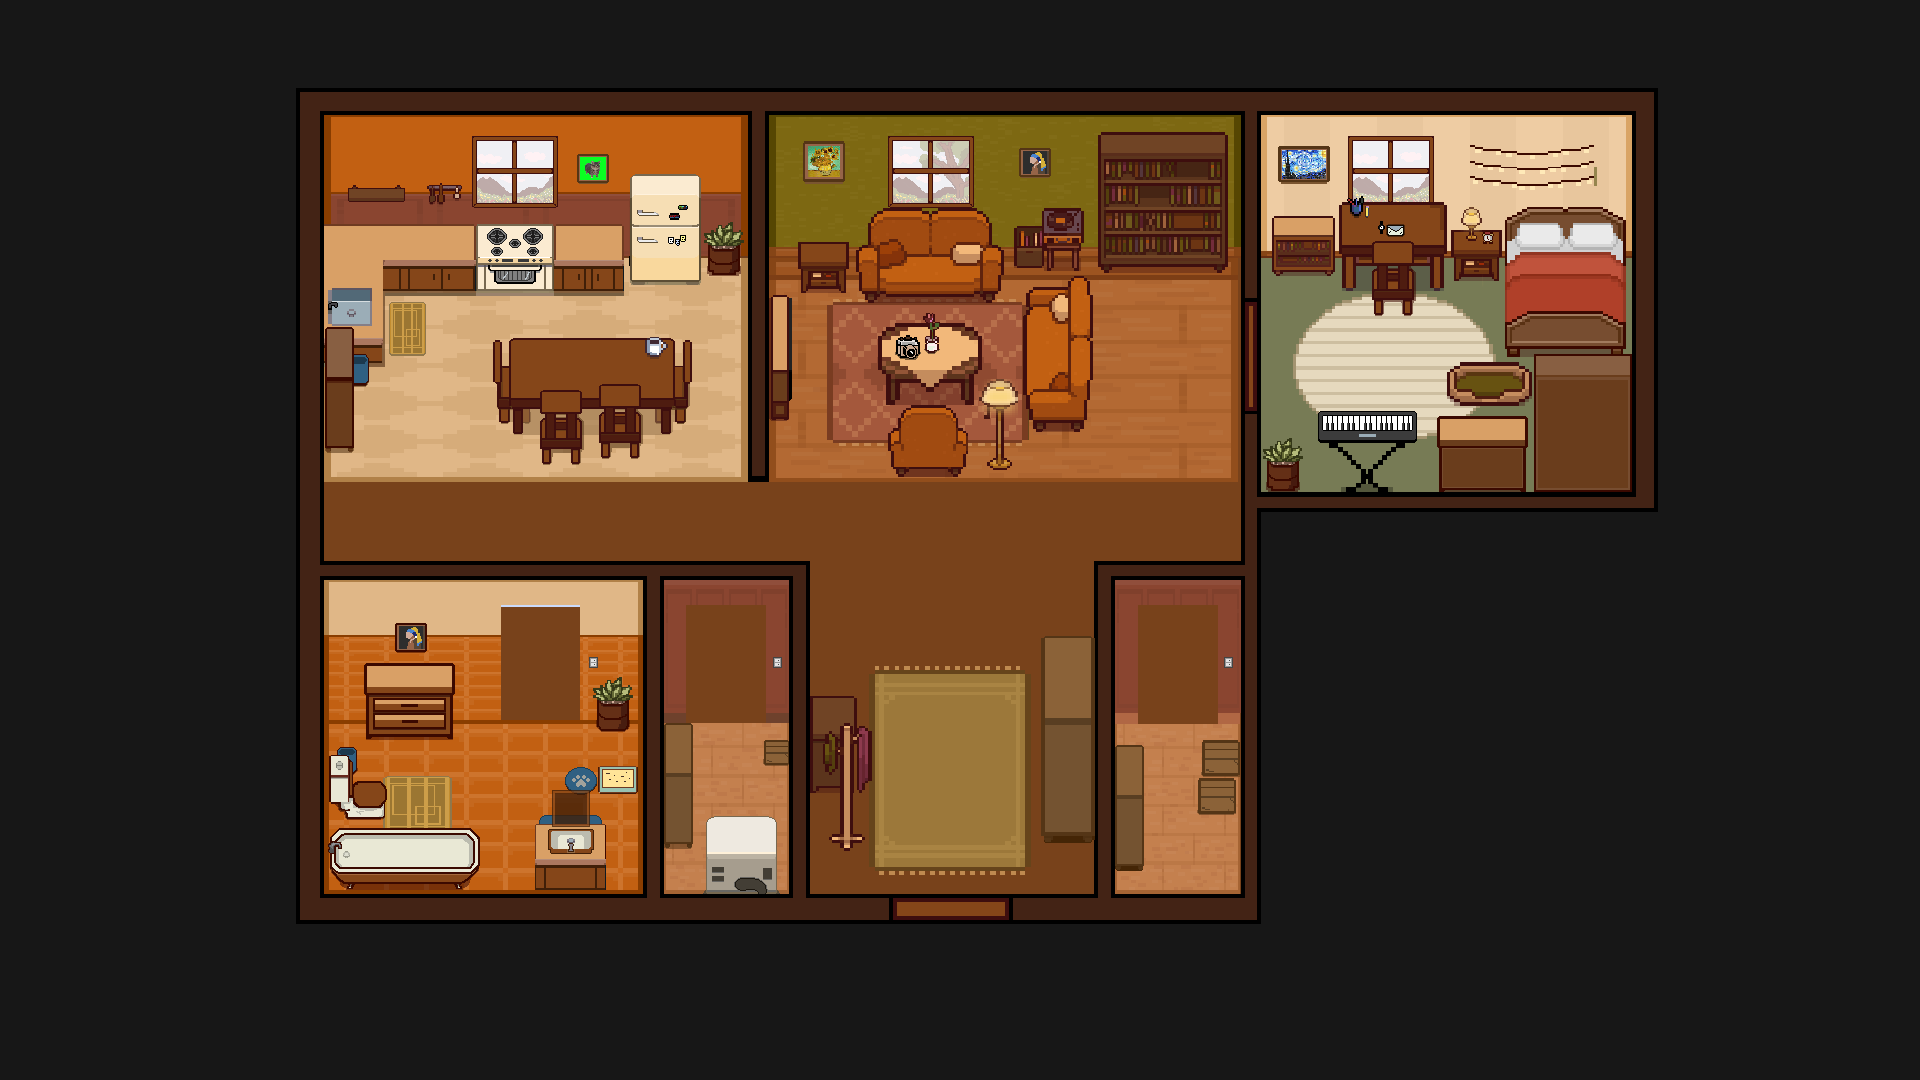
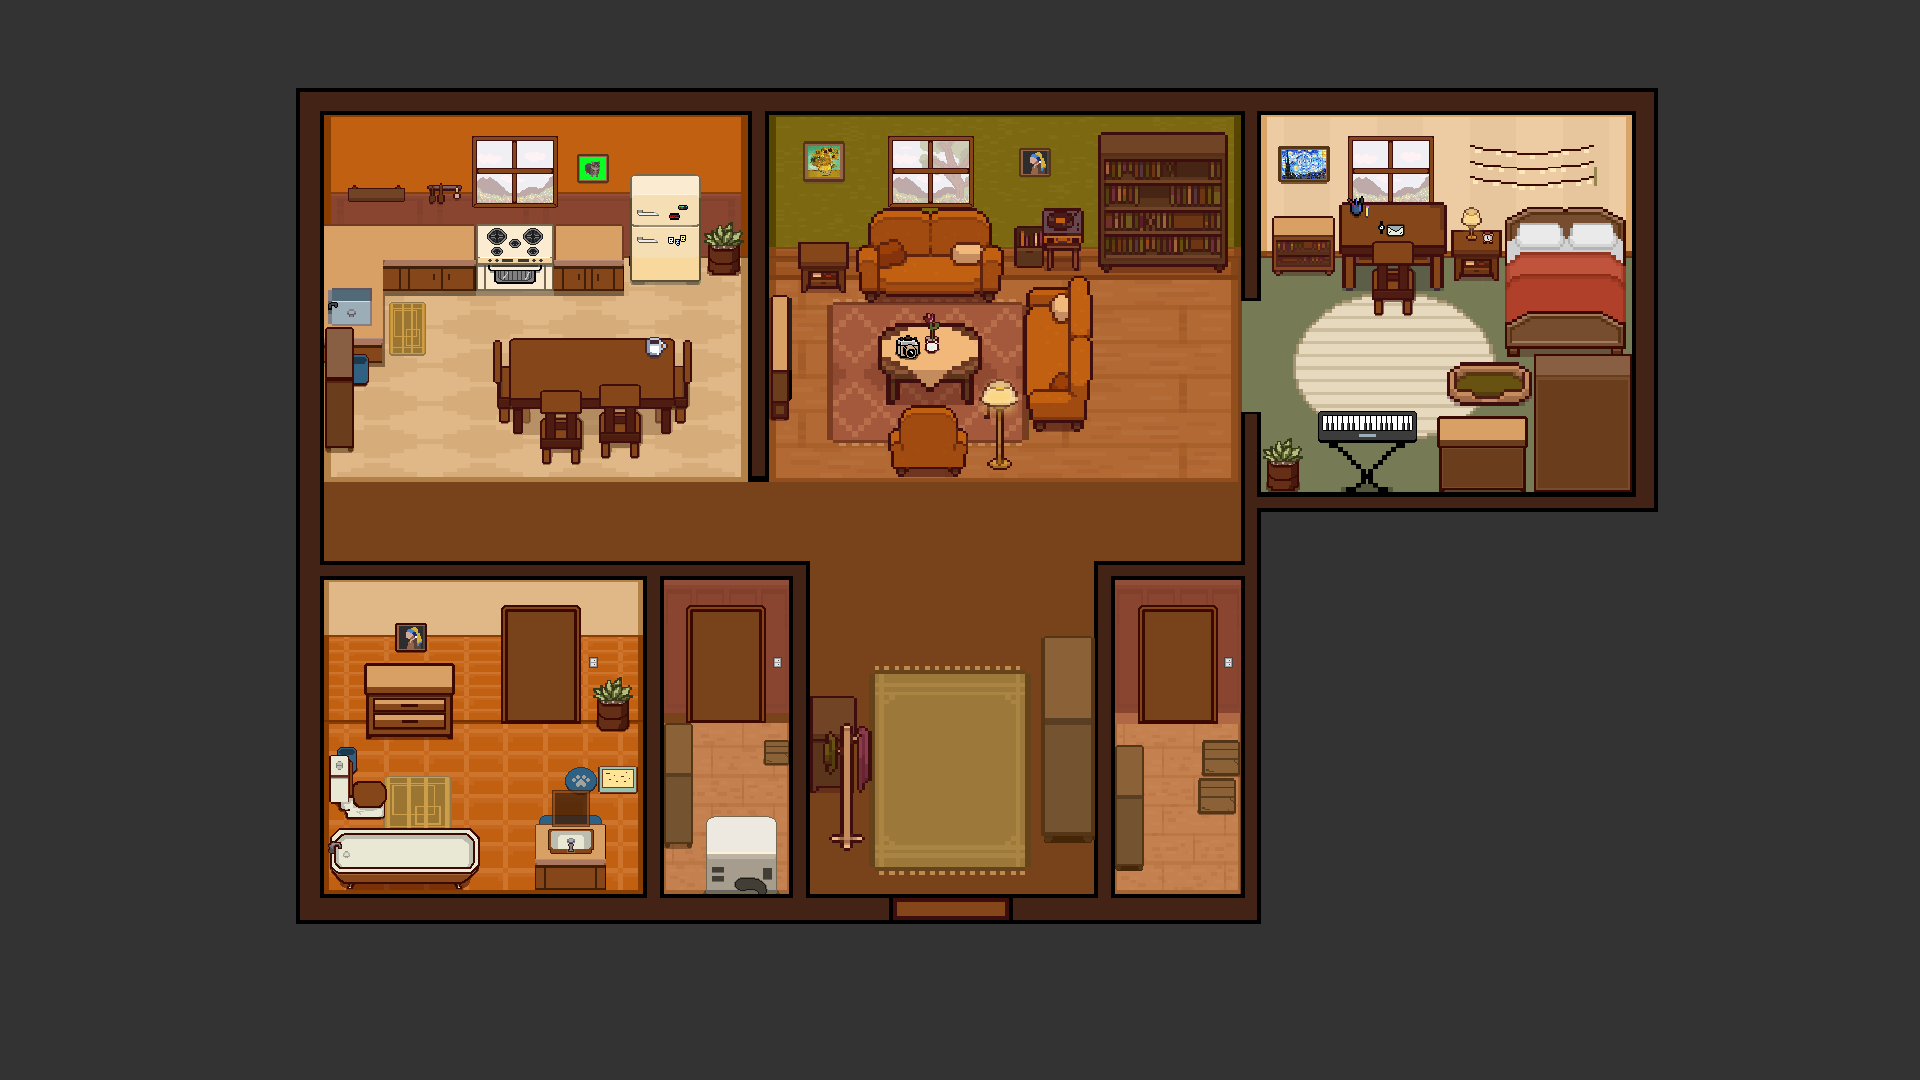
fix door logic, update door graphics

diff --git a/linger/src/scenes/HouseScene.js b/linger/src/scenes/HouseScene.js
@@ -21,9 +21,10 @@ class HouseScene extends Phaser.Scene {
         layout.setDisplaySize(width, height);
 
         // Load the doors
-        this.bathDoor = this.add.image(540, 665, 'door').setDepth(1);
-        this.laundryDoor = this.add.image(727, 665, 'door').setDepth(1);
+        this.bathDoor = this.add.image(541, 665, 'door').setDepth(1);
+        this.laundryDoor = this.add.image(726, 664, 'door').setDepth(1);
         this.storageDoor = this.add.image(1178, 665, 'door').setDepth(1);
+        this.bedroomDoor = this.add.image(1251, 355, 'door-bedroom').setDepth(1);
 
         // Load the ceiling layout
         const ceiling = this.add.image(0, 0, 'layout-ceiling')
@@ -223,7 +224,7 @@ class HouseScene extends Phaser.Scene {
         this.doorList = [];
         this.addDoor(540, 635, 80, 150, this.bathDoor);
         this.addDoor(727, 635, 80, 150, this.laundryDoor);
-        this.addDoor(1252, 355, 20, 110, null); // Null because the bedroom has no image
+        this.addDoor(1250, 355, 20, 110, this.bedroomDoor);
         this.addDoor(950, 910, 120, 30, null); // Null because the main door has no image
         this.addDoor(1178, 635, 80, 150, this.storageDoor);
 
@@ -545,6 +546,7 @@ class HouseScene extends Phaser.Scene {
             this.bathDoor,
             this.laundryDoor,
             this.storageDoor,
+            this.bedroomDoor,
             ceiling,
             this.player,
             this.dot,
@@ -586,7 +588,7 @@ class HouseScene extends Phaser.Scene {
 
         // INSTRUCTION BOX SETUP 
         // 1. Instruction Text (Hidden by default)
-        this.instructionText = this.add.text(1920 / 2, 40, 'WASD to move | Click any object to interact | Find the 12 cards!', {
+        this.instructionText = this.add.text(1920 / 2, 40, 'WASD to move. Click any object to interact. And if you get lost, talk to Dot.', {
             fontSize: '20px',
             fill: '#ffffff',
             backgroundColor: 'rgba(0,0,0,0.5)' // Added a background for better readability
@@ -603,6 +605,7 @@ class HouseScene extends Phaser.Scene {
             .setInteractive({ useHandCursor: true })
             .setScrollFactor(0)
             .setDepth(1001)
+            .setScale(1.7)
             .setVisible(false); // Start hidden
 
         // 3. Toggle Logic
@@ -1039,7 +1042,7 @@ class HouseScene extends Phaser.Scene {
             this.instructionText.setVisible(true); // Show instructions
             this.helpButton.setVisible(true);      // Show the icon
 
-            // Auto-hide the text after 5 seconds (Optional, but great for UX!)
+            // Auto-hide the text after 5 seconds (great for UX!)
             this.time.delayedCall(5000, () => {
                 this.instructionText.setVisible(false);
             });

diff --git a/linger/src/scenes/AssetLoader.js b/linger/src/scenes/AssetLoader.js
@@ -42,6 +42,7 @@ class AssetLoader extends Phaser.Scene {
 
         // Load the door
         this.load.image('door', 'assets/environment/door.png');
+        this.load.image('door-bedroom', 'assets/environment/door-bedroom.png');
 
         // Load the spritesheet for Rem's animation
         this.load.spritesheet('player', 'assets/characters/rem.png', { 
